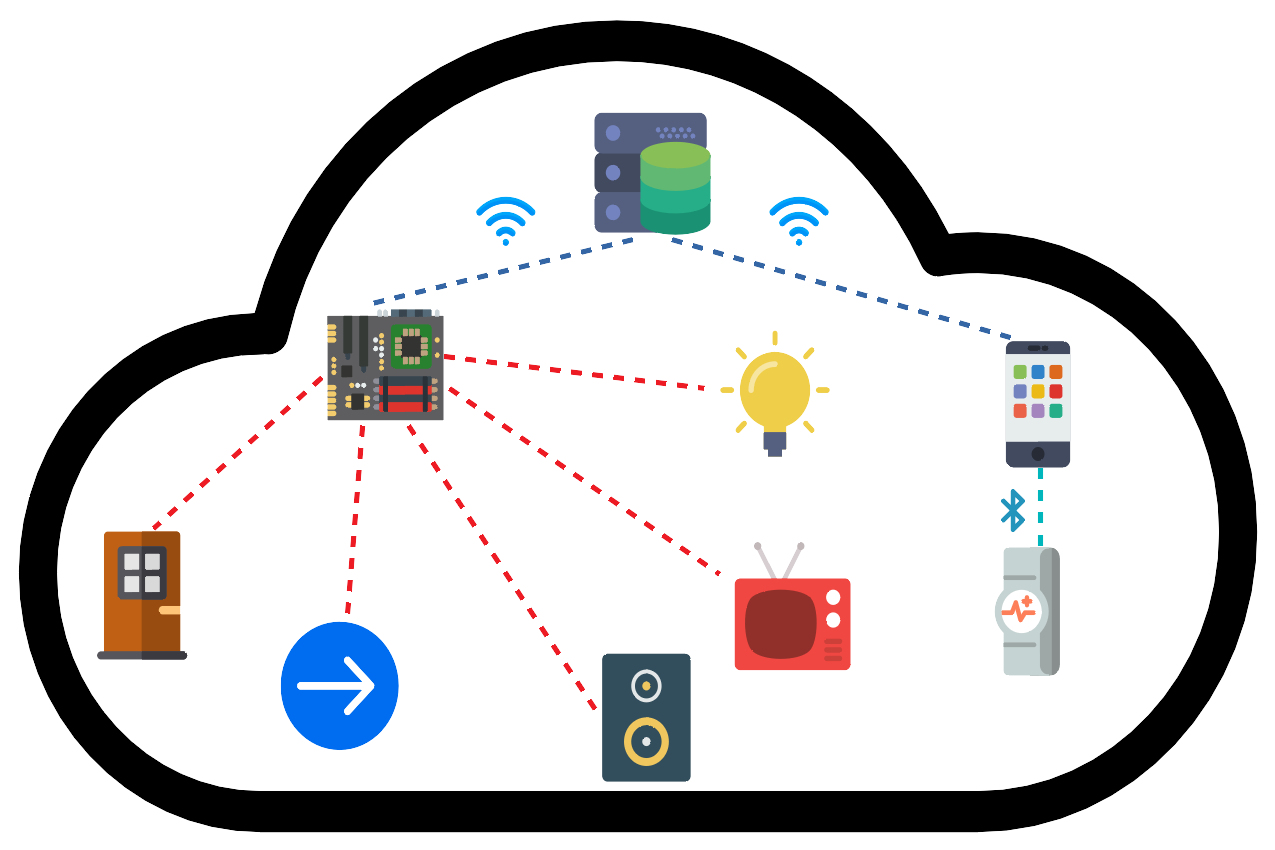
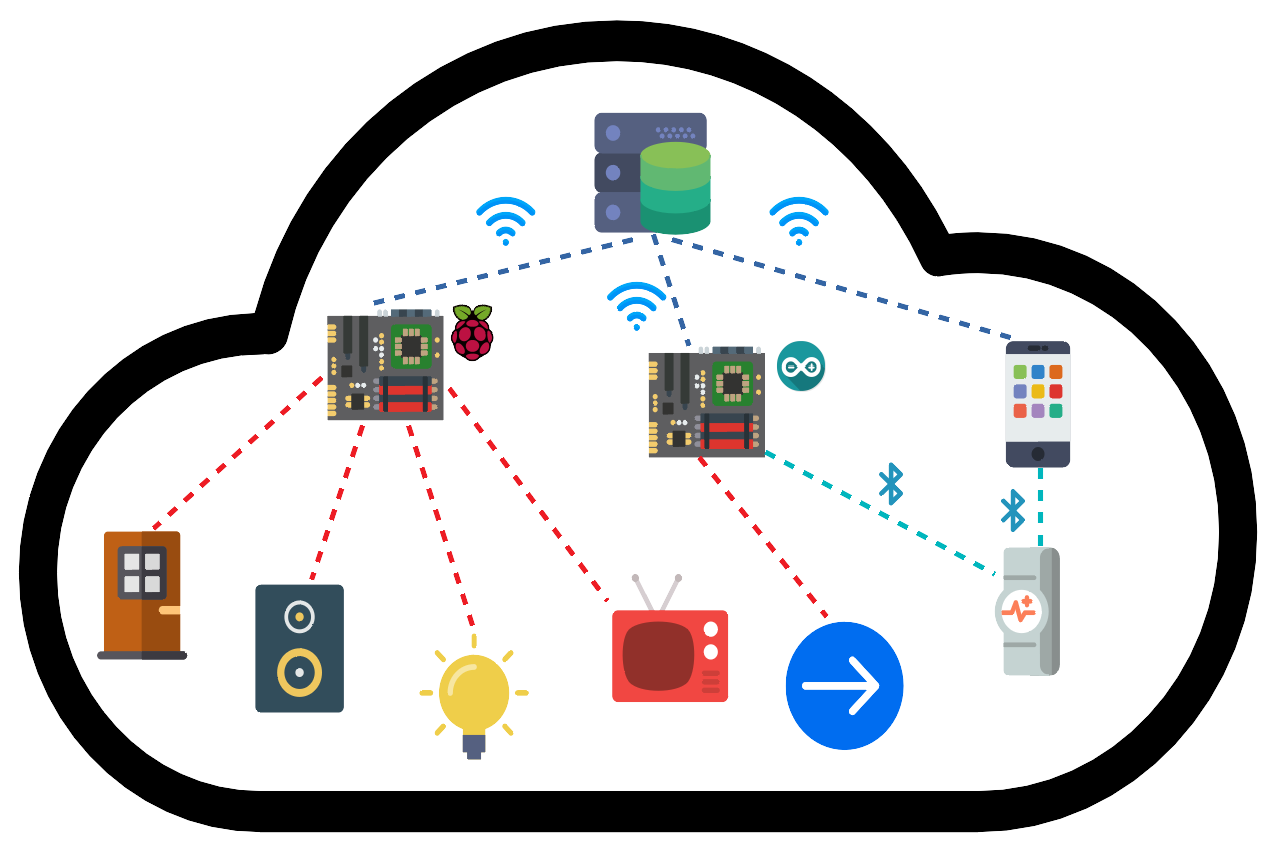
Architecture image edited

diff --git a/index.html b/index.html
@@ -222,7 +222,7 @@
                     <a class="nav-link" id="feat-pills-tab-3" data-toggle="pill" href="#feat-pills-content-3">Wearable</a>
                 </li>
                 <li class="nav-item">
-                    <a class="nav-link" id="feat-pills-tab-4" data-toggle="pill" href="#feat-pills-content-4">Smart Road Sign</a>
+                    <a class="nav-link" id="feat-pills-tab-4" data-toggle="pill" href="#feat-pills-content-4">Smart road sign</a>
                 </li>
             </ul>
 
@@ -397,7 +397,7 @@
                         <div class="card">
                             <div class="card-header" id="card-header-hw-2">
                                 <button class="btn btn-link collapsed" data-toggle="collapse" data-target="#card-body-hw-2">
-                                    <strong>Room client</strong>
+                                    <strong>Room clients</strong>
                                 </button>
                             </div>
                     
@@ -449,7 +449,7 @@
                         <div class="card">
                             <div class="card-header" id="card-header-hw-5">
                                 <button class="btn btn-link collapsed" data-toggle="collapse" data-target="#card-body-hw-5">
-                                    <strong>Smart Road Signs</strong>
+                                    <strong>Smart road signs</strong>
                                 </button>
                             </div>
                     
@@ -645,7 +645,7 @@
                         <div class="card">
                             <div class="card-header" id="card-header-nw-5">
                                 <button class="btn btn-link collapsed" data-toggle="collapse" data-target="#card-body-nw-5">
-                                    <strong>Arduino Client network</strong>
+                                    <strong>Road signs network</strong>
                                 </button>
                             </div>
                     
@@ -658,8 +658,7 @@
                                     </ul>
                                 </div>
                             </div>
-                        </div>  
-                    
+                        </div>
                     </div>
                 </div>
             </div>
@@ -688,7 +687,7 @@
 
                     <strong>Ad-hoc</strong>
                     <ul class="list-unstyled">
-                        <li>Smart Road Signs (leds driven by Arduino board with bluetooth module)</li>
+                        <li>Smart road signs (leds driven by Arduino board with Bluetooth module)</li>
                     </ul>
                 </div>
 
